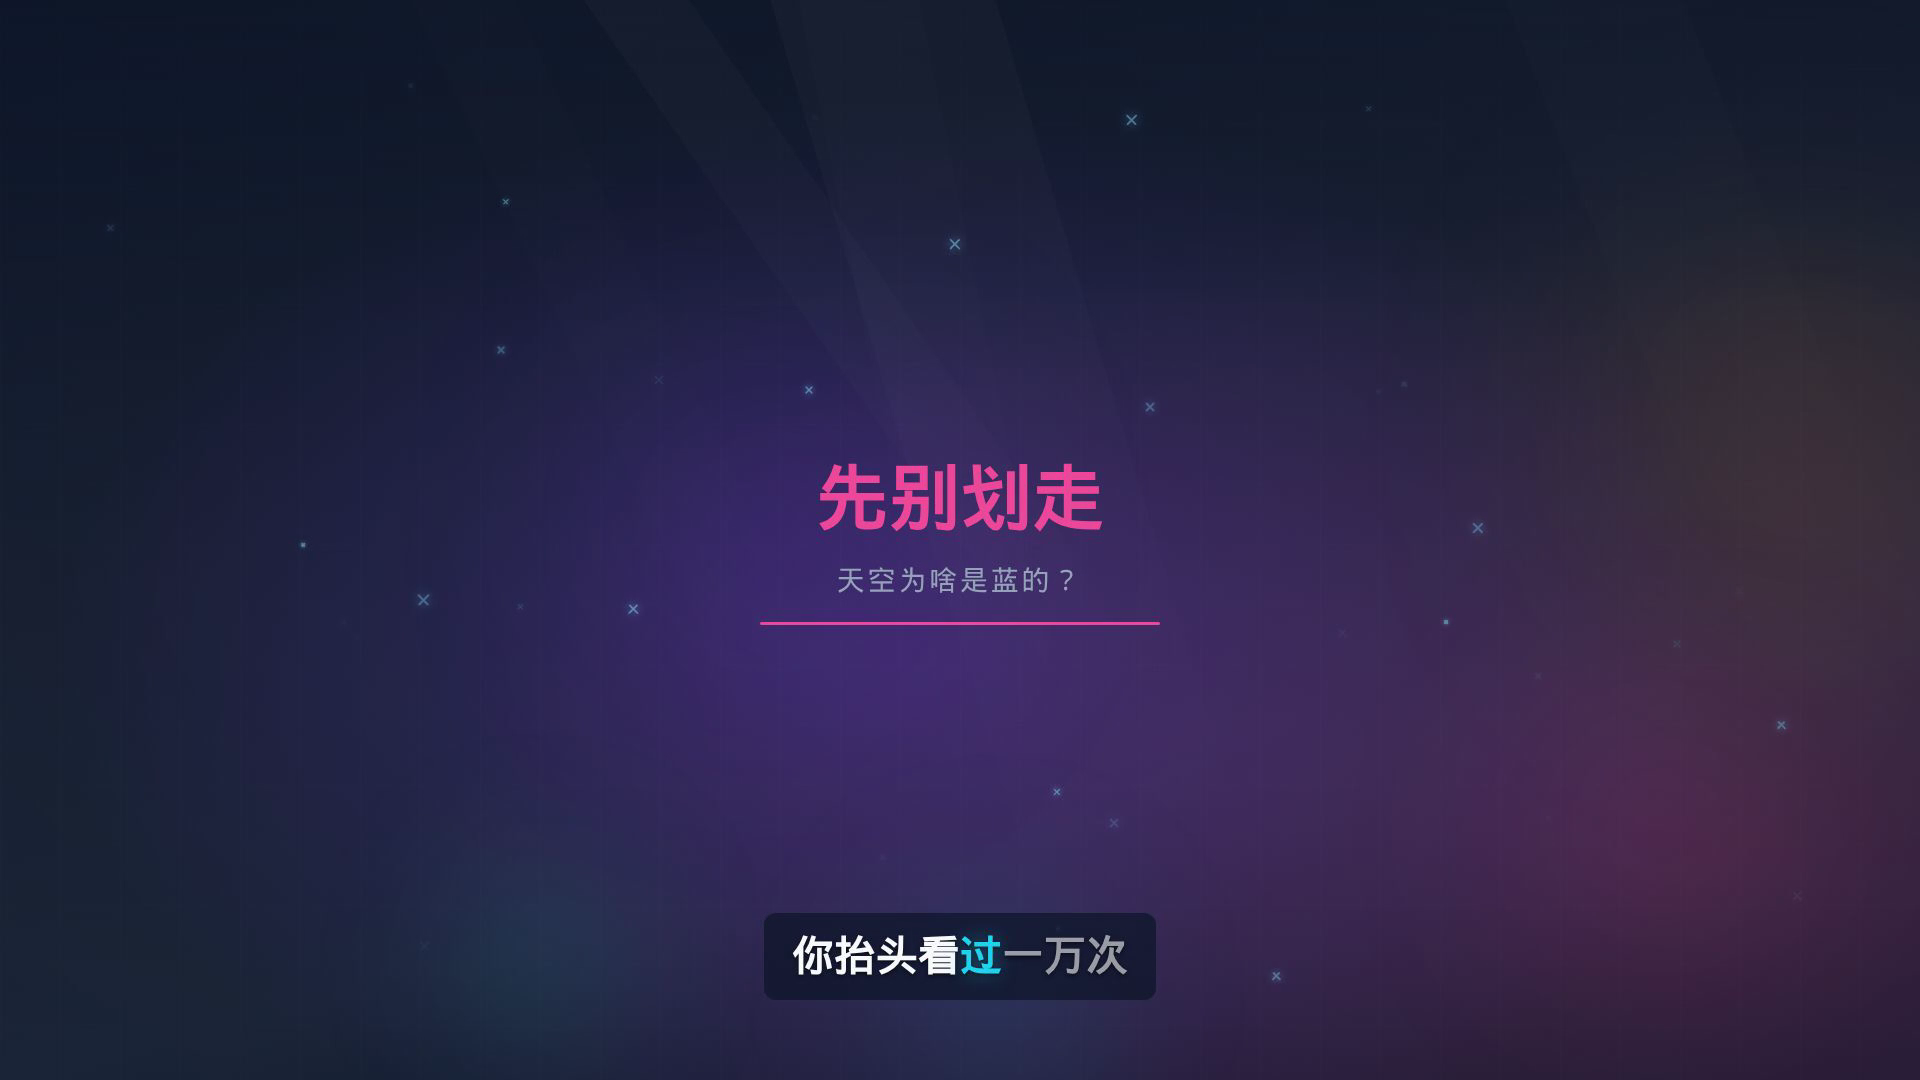
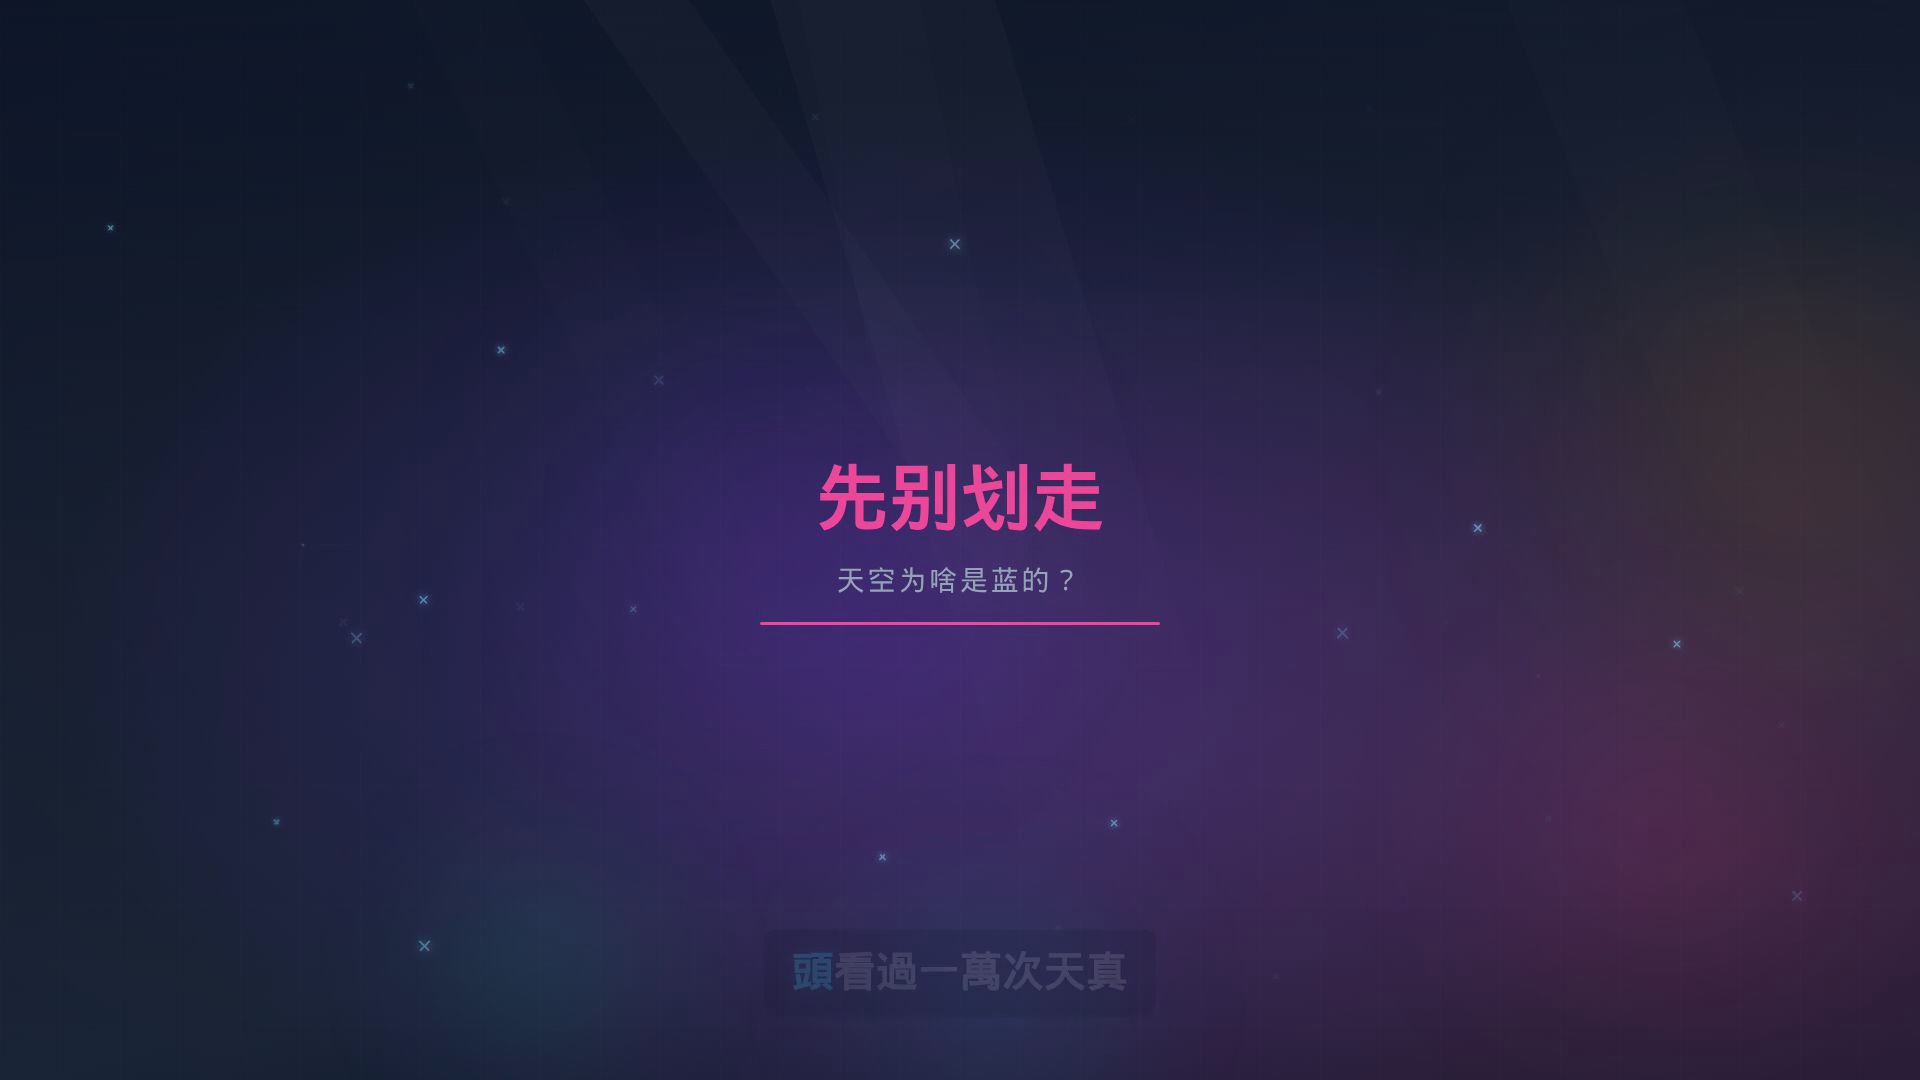
Record sentence-level Piper explainer proof
Re-render is 78s with voice_clarity loudnorm and whisper-aligned
captions. Docs note the pacing comes from ai_video01, not Edge TTS.

Changed region(s): [[0.375, 0.825, 0.625, 0.9472]]

diff --git a/docs/edu-proof.md b/docs/edu-proof.md
@@ -8,19 +8,20 @@ python scripts/zero_cost_explainer.py fixtures/zero-cost/why-sky-is-blue.json
 
 成片在 `projects/why-sky-is-blue/renders/final.mp4`（gitignore）。Pixabay BGM 本机返回 403/空结果，因此只有 Piper 中文旁白 + 字幕，没有背景音乐。
 
-口播按营销号短句重写（「先别划走」「重点来了」「等等」），`length_scale` 0.92、`sentence_silence` 0.12。画面 `motion_energy: high`：更快光斑、sparkles、光束、图文弹簧弹入。Piper 仍是同一把中文声，情绪主要靠稿子和切镜，不是付费配音。
+口播对照 [ai_video01](https://github.com/Tomhao10225101490/ai_video01) **只学节奏、不换 Edge 音色**：按 `。！？` 一句一合成、句间气口、钩子略快；concat 后走 `voice_clarity`（高通 + 存在感 EQ + loudnorm）；字幕用 faster-whisper 字级时间轴（没有 whisper 则回退按时长均分汉字）。Piper 仍是 `zh_CN-huayan-medium`。画面 `motion_energy: high`。
 
 ## 探测结果
 
 | 项 | 值 |
 |----|----|
-| 时长 | 77.23s |
+| 时长 | 78.19s |
 | 分辨率 | 1920×1080 30fps |
 | 视频 | h264 |
 | 音频 | aac stereo 48kHz |
-| 音量 | mean **-18.7 dB**，旁白 wav **-15.6 dB**（不是静音；静音约 -90 dB） |
-| 体积 | 31.3 MB（粒子/光束每帧都在变，比静背景更大） |
-| 旁白 | Piper `zh_CN-huayan-medium` |
+| 音量 | 成片 mean **-19.3 dB**；增强后旁白 **-16.2 dB**（loudnorm 目标约 -16） |
+| 体积 | 31.3 MB |
+| 旁白 | Piper 按句合成 + `voice_clarity` |
+| 字幕 | whisper 200 words / 244 cues |
 
 钩子帧（「先别划走」+ 光束/闪点）：
 
